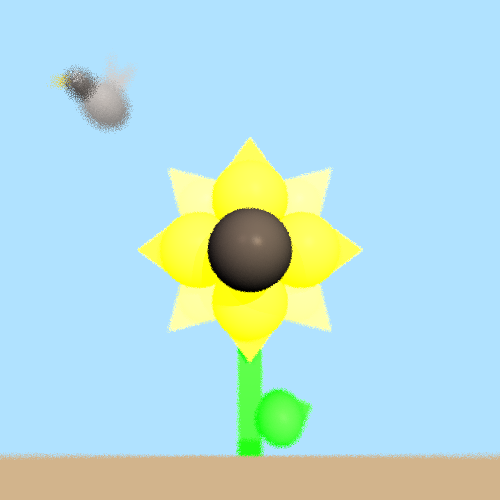
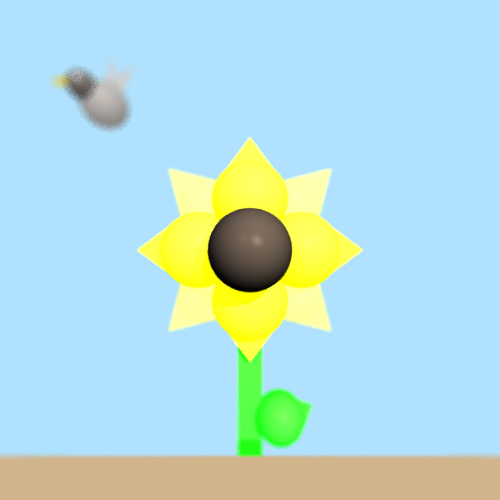
Fixing89

diff --git a/unittests/renderer/FirstMpTests.java b/unittests/renderer/FirstMpTests.java
@@ -171,7 +171,7 @@ public class FirstMpTests {
                 .setVpDistance(10)
                 .setResolution(500, 500)
                 .setRayTracer(scene, RayTracerType.SIMPLE)
-                .setDofRays(5)
+                .setDofRays(50)
                 .setAperture(0.5)
                 .setFocalDistance(17)
                 .build();
